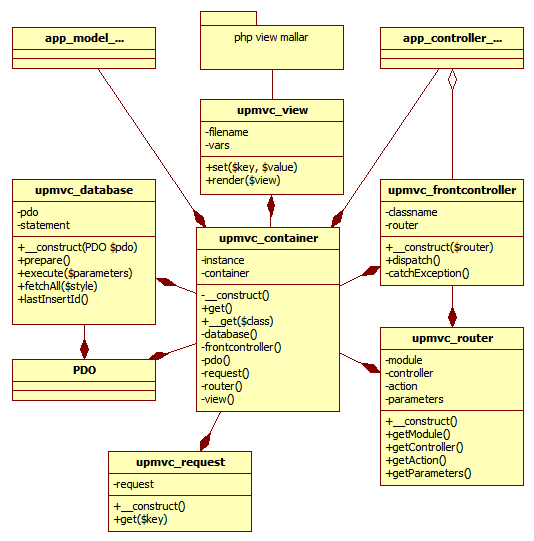
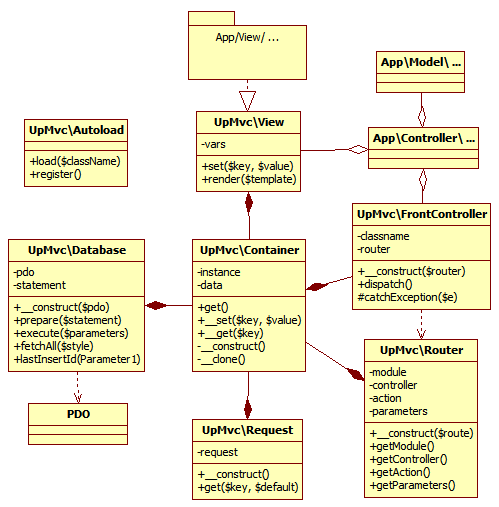
UML-diagram uppdaterat
Förnyat grafik till senaste versionen av Up MVC

diff --git a/UpMvc/View/detaljer.php b/UpMvc/View/detaljer.php
@@ -10,11 +10,9 @@
  */
 ?>
 
-<p><em>Obervera att informationen i detta kapitlet är något inaktuell.
+<p><em>Obervera att informationen om tidslinjen är något inaktuell.
 Den skrevs innan namepaces infördes, och därmed är klassnamnen annorlunda.
-Servicecontainern är också omarbetad till att använda closures (och
-konfigurationsfilen har fått en större betydelse). Men i det stora hela är
-flödet fortfarande detsamma.</em></p>
+Men i det stora hela är flödet fortfarande detsamma.</em></p>
 
 
 
@@ -31,18 +29,18 @@ av lite bilder. Ta en titt nedan, förklaring följer efteråt.</p>
 
 <h4>Ramverket som ett UML-diagram</h4>
 
-<img src="<?php echo UpMvc\Container::get()->site_path ?>/UpMvc/View/img/UpMvc_uml.png" class="center" width="534" height="541" alt="UML-diagram över Up MVC&apos;s kärna" />
+<img src="<?php echo UpMvc\Container::get()->site_path ?>/UpMvc/View/img/UpMvc_uml.png" class="center" width="499" height="507" alt="UML-diagram över Up MVC&apos;s kärna" />
 
 <p>Här ser vi att det är service containern (UpMvc\Container) som är ramverkets hjärta. Containern
 kan skapa upp och lagra instanser av alla de viktigaste objekten som du och systemet behöver.</p>
 
 <p>Frontcontrollern (UpMvc\FrontController) till höger håller en referens till ett router-objekt (UpMvc\Router)
 som tolkar URL&apos;en. När routern har gjort sitt startar frontcontrollern rätt controller (i detta exemplet
-visat som App_Controller_...).</p>
+visat som App\Controller\...).</p>
 
 <p>Controllern har nu möjlighet att via containern hämta in ett view-objekt (UpMvc\View) och fylla det
 objektet med data som behövs för den aktuella sidan. Bland annat används säkert en eller flera
-modeller (visat som App_Controller_...) för att hämta data fråm modell-lagret. Det kan vara databaser,
+modeller (visat som App\Model\...) för att hämta data fråm modell-lagret. Det kan vara databaser,
 filer eller sessionsvariabler m.m. I fallet med databaserna så används ett databas-objekt (UpMvc\Database)
 som håller en referens av ett PDO-objekt som sköter kommunikationen med servern.</p>
 
